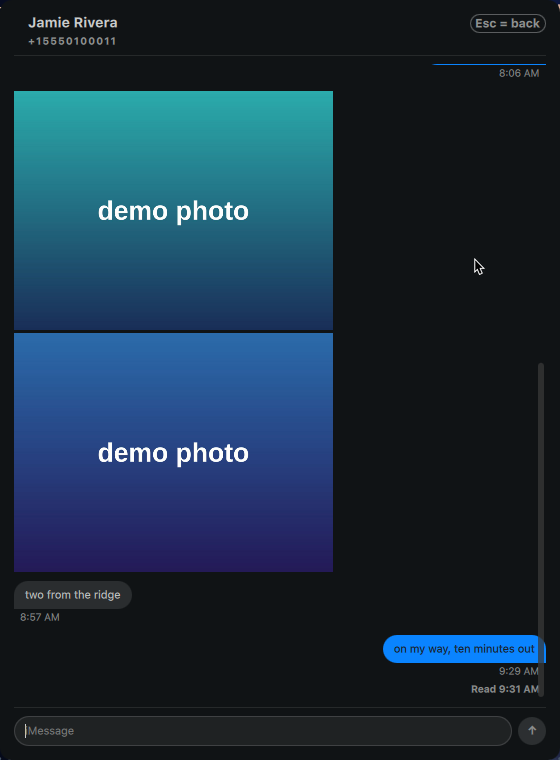
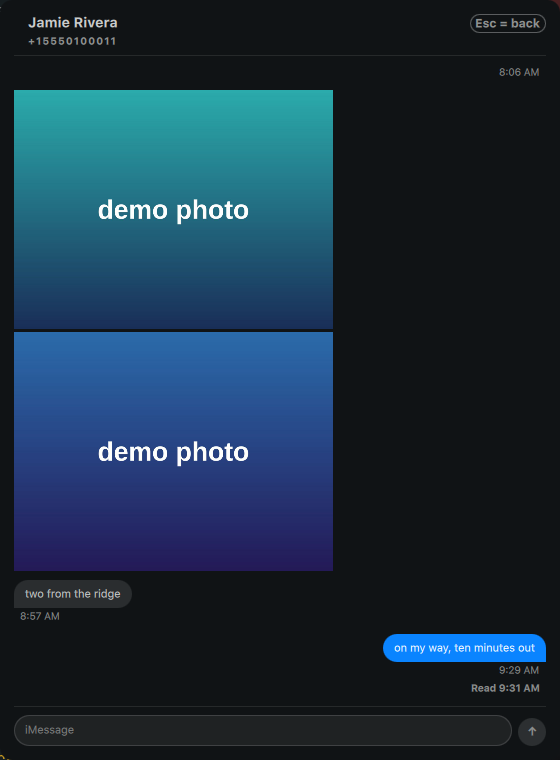
Blue bubbles: your messages are iMessage blue with white text on every theme
WHAT: BlipView.accent is a fixed #0a84ff and mineText a fixed #ffffff. Until
now the accent followed Color.accent from the Omarchy theme, with iMessage blue
only as the fallback for themes without a distinct accent, and the bubble text
picked black or white by a luminance rule.

WHY: Fred, 2026-09-04: "Yes make the bubbles blue too" — following "the NEW
message dot on the icon should ALWAYS be BLUE no matter what... 'Blue Bubbles'."
On several Omarchy themes the accent is red, and red bubbles read as failed
sends; the whole point of the look is that blue bubbles ARE iMessage. The
luminance rule is gone with the variable fill: on #0a84ff it would have chosen
dark text, and Messages uses white. Foreground, background and font still come
from the theme.

VERIFIED: live on the self-thread (bubbles, link card, send button, "Read"
receipt all blue, white text) and the four README screenshots regenerated
through scripts/demo/blip-shots against the fake bridge — committed here so
the docs show what ships. themeHasAccent removed (single consumer). Invariant
test added; 331 tests.

TAGS: ui, bubbles, accent, imessage-blue, theme, screenshots

LR-T: blue-bubbles, accent-pinned, readme-screenshots
LR-D: blip, ui
LR-K: the-look-is-not-a-theme-preference
LR-R: 2d3dd6b

Claude-Session: https://claude.ai/code/session_01K3V19BaTrQa2HCPFYbcfTy

diff --git a/BlipView.qml b/BlipView.qml
@@ -89,23 +89,18 @@ FocusScope {
   readonly property real contentHeightHint: listContent.implicitHeight
   /** The view wants keyboard navigation focus back (list mode). */
   signal navigationFocusRequested()
-  // Palette follows the Omarchy theme (Fred, 2026-08-31). Color.* is the
-  // live theme singleton — it hot-reloads on theme switch, so every accent,
-  // bubble, and link repaints with the rest of the desktop. If the theme
-  // ships no distinct accent (accent == foreground), fall back to iMessage
-  // blue so "my" bubbles stay readable as mine.
-  readonly property bool themeHasAccent: Color.accent.toString() !== Color.foreground.toString()
-  readonly property color accent: themeHasAccent ? Color.accent : "#0a84ff"
+  // Foreground and background follow the Omarchy theme (Color.* is the live
+  // theme singleton and hot-reloads on switch). The ACCENT does not: it is
+  // iMessage blue, always. Bubbles followed the theme accent until 2.3.3, and
+  // on the themes where that accent is red "my" messages read as errors;
+  // Fred, 2026-09-04: "Yes make the bubbles blue too" — blue bubbles are the
+  // look, not a theme preference. White text on that blue, as Messages does.
+  readonly property color accent: "#0a84ff"
   readonly property color cyan: accent            // legacy name; accents/links
   readonly property color okColor: accent
 
   readonly property color mineFill: accent
-  // Bubble text picks black/white by which CONTRASTS better with the fill:
-  // (L+0.05)/0.15 vs 1.05/(L+0.05) cross over near L≈0.35. A 0.6 threshold
-  // chose white on medium accents where dark text is clearly more legible
-  // (e.g. Evergreen #4a9a68: white 3.4:1 vs dark 5.1:1).
-  readonly property color mineText:
-    (0.299 * mineFill.r + 0.587 * mineFill.g + 0.114 * mineFill.b) > 0.35 ? "#1a1a1a" : "#ffffff"
+  readonly property color mineText: "#ffffff"
   readonly property color theirsFill: Qt.rgba(foreground.r, foreground.g, foreground.b, 0.14)
   readonly property color theirsText: foreground
 

diff --git a/ui.test.ts b/ui.test.ts
@@ -251,3 +251,11 @@ test("the icon's unread dot is always iMessage blue", () => {
   expect(widget).toContain('readonly property color blipAccent: "#0a84ff"');
   expect(widget).not.toContain("blipAccent:\n    Color.accent");
 });
+
+// Bubbles are iMessage blue on every theme, white text on them, like Messages.
+// They followed the theme accent until 2.3.3 — red on several Omarchy themes.
+test("outgoing bubbles are always iMessage blue with white text", () => {
+  expect(panel).toContain('readonly property color accent: "#0a84ff"');
+  expect(panel).toContain('readonly property color mineText: "#ffffff"');
+  expect(panel).not.toContain("themeHasAccent");
+});

diff --git a/CLAUDE.md b/CLAUDE.md
@@ -139,8 +139,10 @@ what it is handed. Keep it that way.
   becomes another key. Settled 2026-09-04 against PR #21, which proposed a
   `preferences.json` with eleven knobs and a ~1300-line settings panel: it was
   careful work (atomic, 0600, ownership and size validated) and was still the
-  wrong shape. Blip inherits Omarchy's theme and aims at ONE opinionated
-  iMessage look; a second config system with per-user bubble colors, density,
+  wrong shape. Blip inherits Omarchy's theme (foreground, background, font)
+  and aims at ONE opinionated iMessage look — the accent is NOT the theme's:
+  bubbles and the bar icon's unread dot are iMessage blue `#0a84ff` on every
+  theme, white text on the bubbles (Fred, 2026-09-04: "Blue Bubbles"); a second config system with per-user bubble colors, density,
   avatar size and corner scale multiplies the states every layout bug can hide
   in. The concrete warning: that PR defaulted `hideShortCodeConversations` to
   true, which would have silently hidden the GA Power SMS from 99123 that took

diff --git a/CHANGELOG.md b/CHANGELOG.md
@@ -2,6 +2,10 @@
 
 ## Unreleased
 
+- **Blue bubbles.** Your messages are iMessage blue with white text on every
+  theme. They followed the Omarchy accent, which is red on several themes —
+  and red bubbles read as failed sends. The unread dot on the bar icon is the
+  same blue. Foreground and background still come from the theme.
 - **The icon's unread dot is iMessage blue, always.** It followed the Omarchy
   theme accent, which on several themes is red — a red dot on a messaging icon
   reads as an error, and red belongs to alerts. Blue bubbles, blue dot.
